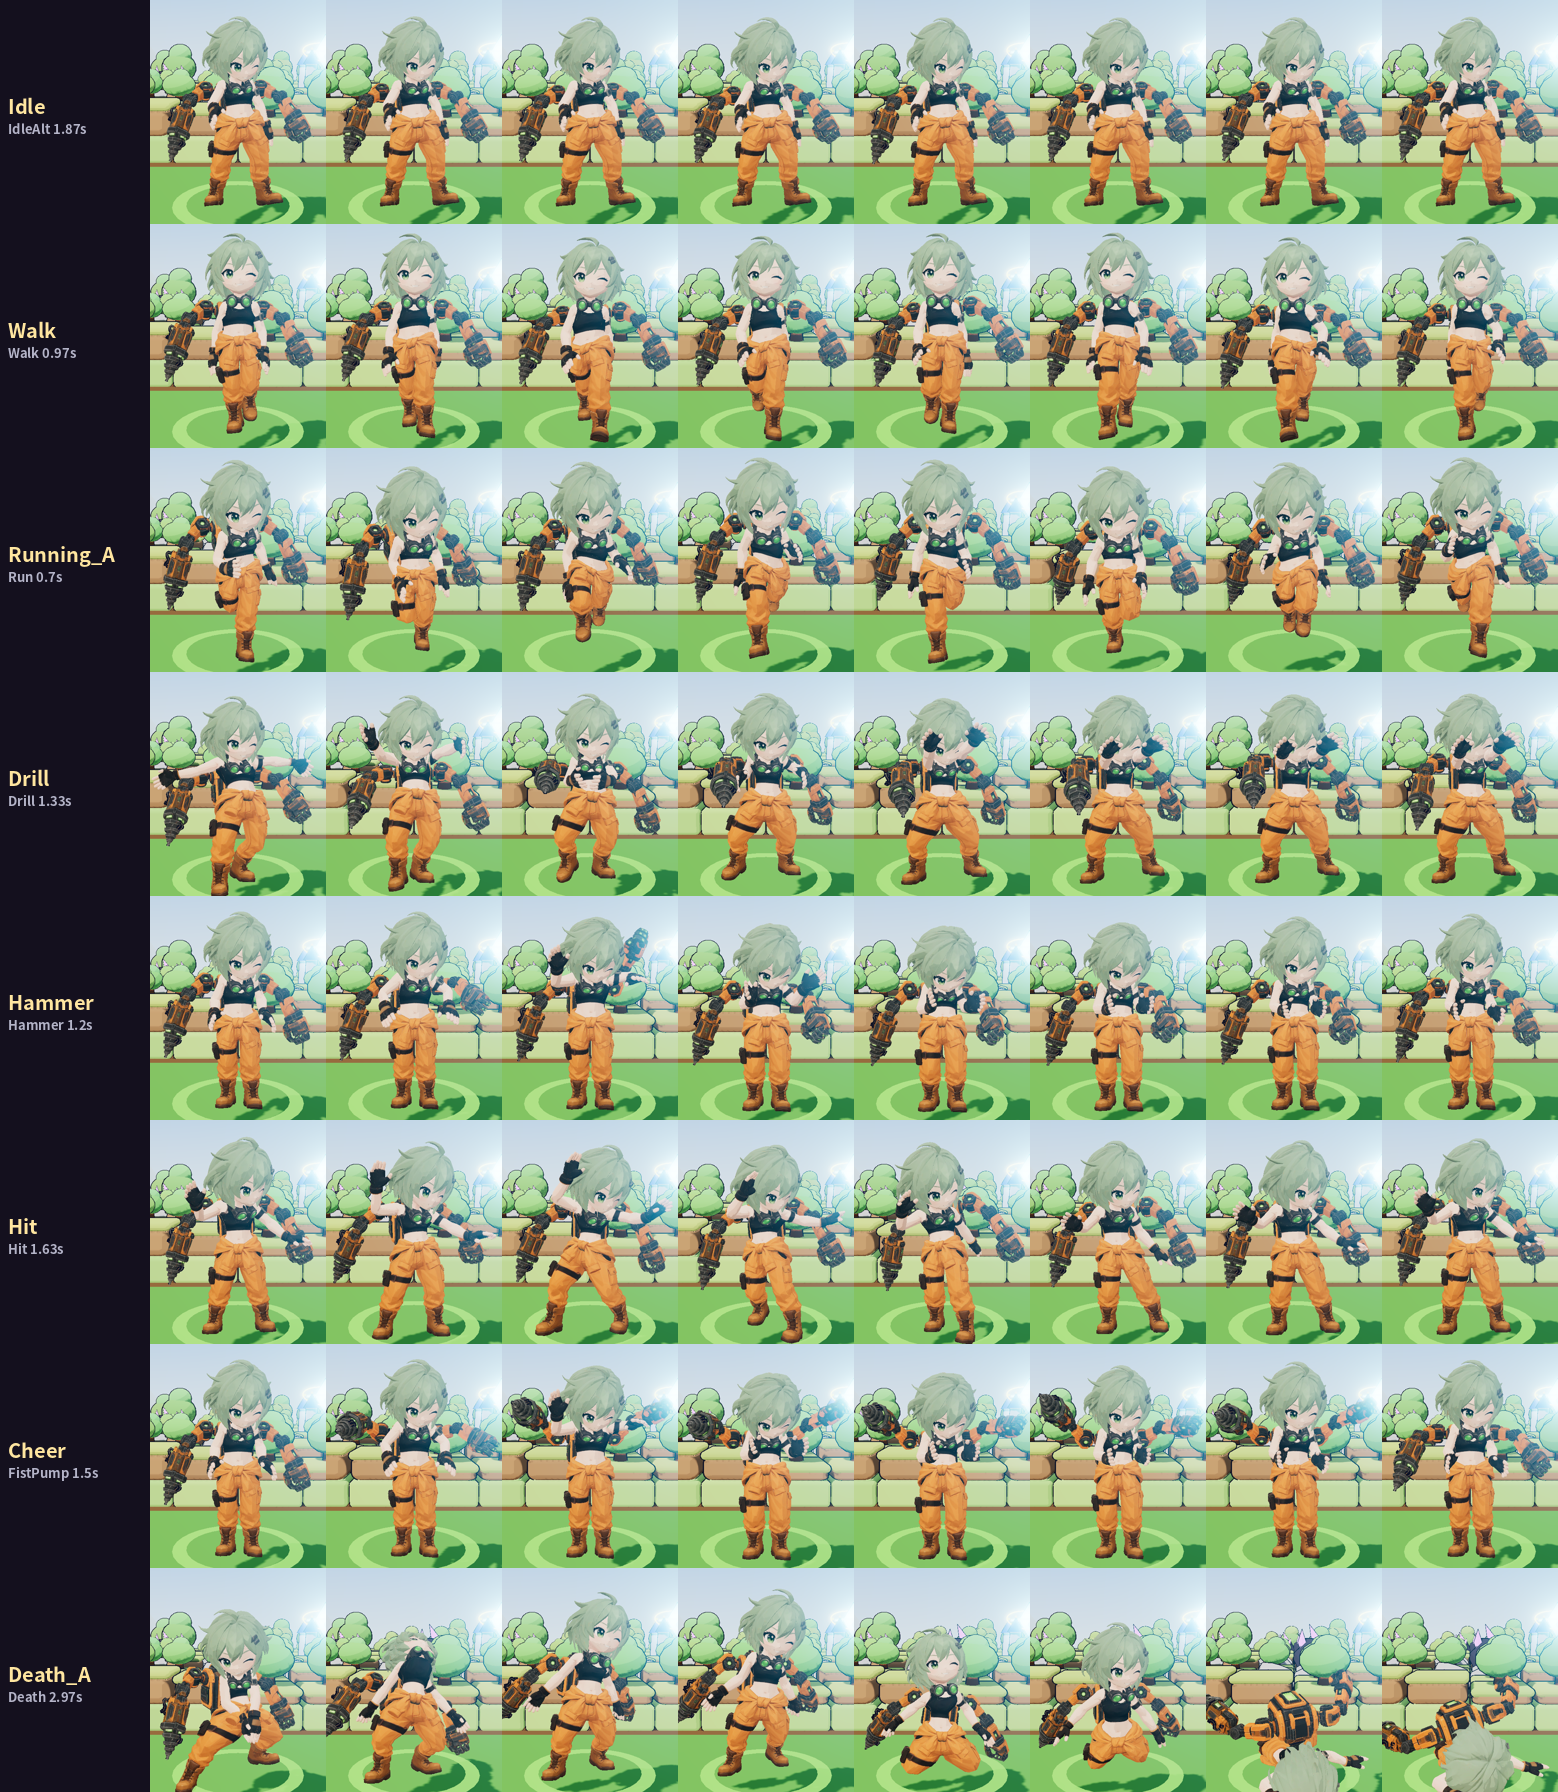
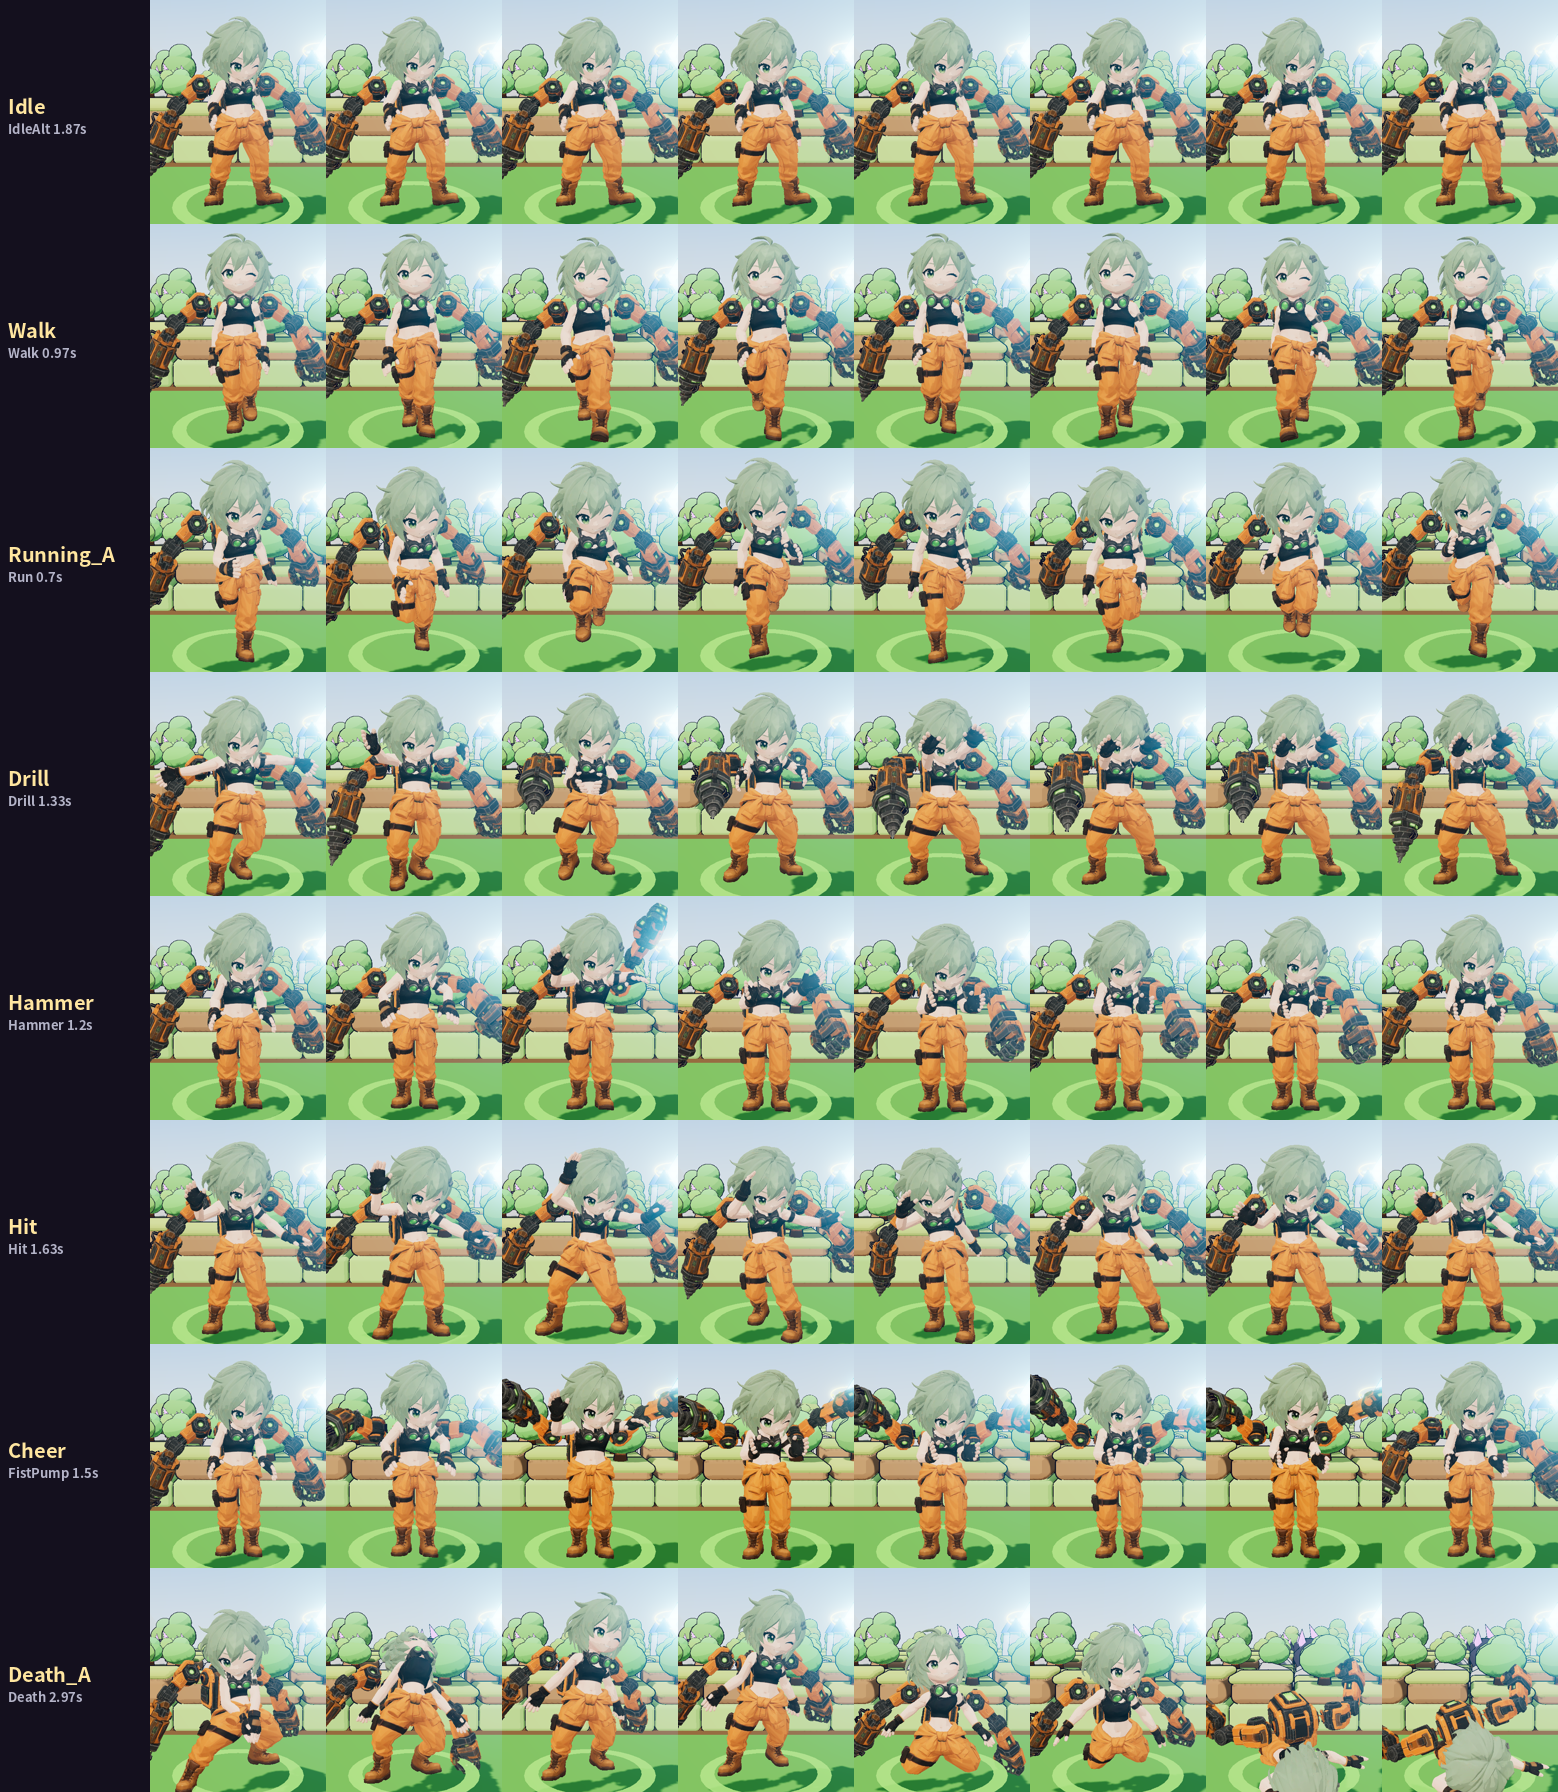
버들 로봇 팔 크게: 컨셉처럼 등 팩에서 뻗은 큰 팔 — 팔만 1.3배(어깨 관절 기준 강체), 어깨를 팩 바깥·위로, 대기 자세 옆으로 벌려 늘어뜨림(rest 1.05→0.6, splay 0.3→0.42) · 콘택트 시트(정면/측면) + 측정 json: 뼈 거리 변화 0%, 강체 부품 최대 변형 0.001%, NO STRETCH OK · budeul_head OK

diff --git a/src/render/characters.js b/src/render/characters.js
@@ -120,14 +120,14 @@ function mechArms(ch, M) {
 // ---- 버들 로봇 팔 (강체): budeul_gear = Pack / ArmR(드릴, 버들의 오른쪽) / ArmL(집게 주먹). 팔 노드 원점 = 어깨 관절, extras.tip = 팔 끝
 // 몸에 스킨하지 않고 Spine02 뼈에 통째로 붙임(크기 고정) → 몸이 움직여도 늘어나거나 찌그러지지 않음. 팔은 어깨에서 회전만 함(절차적 동작)
 // 모델 정면(+Z, 초록 패널)을 등 바깥으로: z 축 반전(= Y 180° 회전 + 좌우 반전) → 드릴은 그대로 버들의 오른쪽(-X)
-export const GEAR = { s: .9, off: [0, -.3, -.59], rest: 1.05, splay: .3 }; // off = Spine02 기준(게임 단위): 팩 윗면이 머리카락 아래(1.92), 안쪽 면이 등 뒤(-0.15)
+export const GEAR = { s: .9, off: [0, -.3, -.59], rest: .6, splay: .42, arm: 1.3, sx: .08, sy: .05 }; // arm = 로봇 팔만 1.3배(어깨 관절 기준, 강체) · sx/sy = 어깨를 팩 바깥·위로 → 컨셉처럼 등에서 뻗은 큰 팔(옆으로 벌려 늘어뜨림) // off = Spine02 기준(게임 단위): 팩 윗면이 머리카락 아래(1.92), 안쪽 면이 등 뒤(-0.15)
 const GEAR_ACT = { Drill: 'drill', Hammer: 'hammer', Uppercut: 'up', FistPump: 'cheer', CheerUp: 'cheer', Hit: 'hit', Death: 'death' };
 function mechGear(ch, M) {
   ch.hamHit = M.hamHit || 1; ch.runSpd = 0; ch.tips = {}; const src = GL.budeul_gear && GL.budeul_gear.scene; if (!src) return;
   const S = GEAR.s, g = new THREE.Group(), body = new THREE.Group(); body.scale.set(S, S, -S); g.add(body); const arms = {};
   for (const n of ['Pack', 'ArmR', 'ArmL']) { const node = src.getObjectByName(n); if (!node) continue; const c = node.clone(true); body.add(c);
     c.traverse(o => { if (o.isMesh) { o.material = o.material.clone(); o.material.userData.e = o.material.emissive.clone(); ch.mats.push(o.material); o.castShadow = true; o.frustumCulled = false; } });
-    if (n !== 'Pack') { c.rotation.order = 'XYZ'; arms[n] = c; const tip = new THREE.Object3D(); tip.position.fromArray(node.userData.tip || [0, -1, 0]); c.add(tip); ch.tips[n === 'ArmR' ? 'drill' : 'fist'] = tip; } }
+    if (n !== 'Pack') { c.rotation.order = 'XYZ'; arms[n] = c; c.scale.multiplyScalar(GEAR.arm || 1); c.position.x += Math.sign(c.position.x || 1) * (GEAR.sx || 0); c.position.y += GEAR.sy || 0; const tip = new THREE.Object3D(); tip.position.fromArray(node.userData.tip || [0, -1, 0]); c.add(tip); ch.tips[n === 'ArmR' ? 'drill' : 'fist'] = tip; } }
   attachProp(ch, 'Spine02', g, GEAR.off); ch.root.updateMatrixWorld(true);
   g.traverse(o => { if (o.isMesh && !o.userData.ol) addOutline(o, .032 / o.getWorldScale(wsV).x); });
   // 드릴 잔상: 드릴 끝에서 팔 쪽으로 원뿔 2겹 (축 = 팔 아래쪽 정점 중심 → 끝)

diff --git a/tests/budeul_sheet.py b/tests/budeul_sheet.py
@@ -18,7 +18,7 @@ CW, CH = (176, 224) if '--big' not in sys.argv else (330, 420)
 srv, url = serve(); F = ImageFont.truetype('/usr/share/fonts/opentype/noto/NotoSansCJK-Bold.ttc', 20)
 SETUP = """async (key)=>{ const {makeHeroModel}=await import('./src/render/characters.js'); const {cam,updateCam}=await import('./src/render/scene.js'); const THREE=G.THREE; G.manual=true; G.pauseRender=true;
   document.getElementById('select').classList.add('hidden'); const ch=makeHeroModel('mechanic', key==='budeul_meshy'?undefined:key); const X=14, Z=G.GH+5; ch.g.position.set(X,0,Z); G.scene.add(ch.g); window.__ch=ch;
-  const H=key.includes('robot')?4.6:2.8; window.__view=(side)=>{ cam.target.set(X,H*.5,Z); cam.r=H*(key.includes("robot")?2.4:1.65); cam.phi=1.45; cam.theta=side===2?.75:side?Math.PI/2:0; updateCam(); };
+  const H=key.includes('robot')?4.6:2.8; window.__view=(side)=>{ cam.target.set(X,H*.5,Z); cam.r=H*(key.includes("robot")?2.4:1.65); cam.phi=1.45; cam.theta=side===2?.75:side?(key.includes("robot")?-Math.PI/2:Math.PI/2):0; updateCam(); };
   /* 스킨 메시 변(edge) 목록 + 바인드 길이 (메시 로컬, 스킨 전) */
   const sk=[], rigid=[]; ch.root.traverse(o=>{ if(o.isSkinnedMesh&&!o.userData.ol) sk.push(o); else if(o.isMesh&&!o.isSkinnedMesh&&!o.userData.ol) rigid.push(o); });
   window.__E=sk.map(m=>{ const g=m.geometry, P=g.attributes.position, I=g.index?g.index.array:null, n=I?I.length:P.count, E=[], L0=[], seen=new Set(), a=new THREE.Vector3(), b=new THREE.Vector3();
